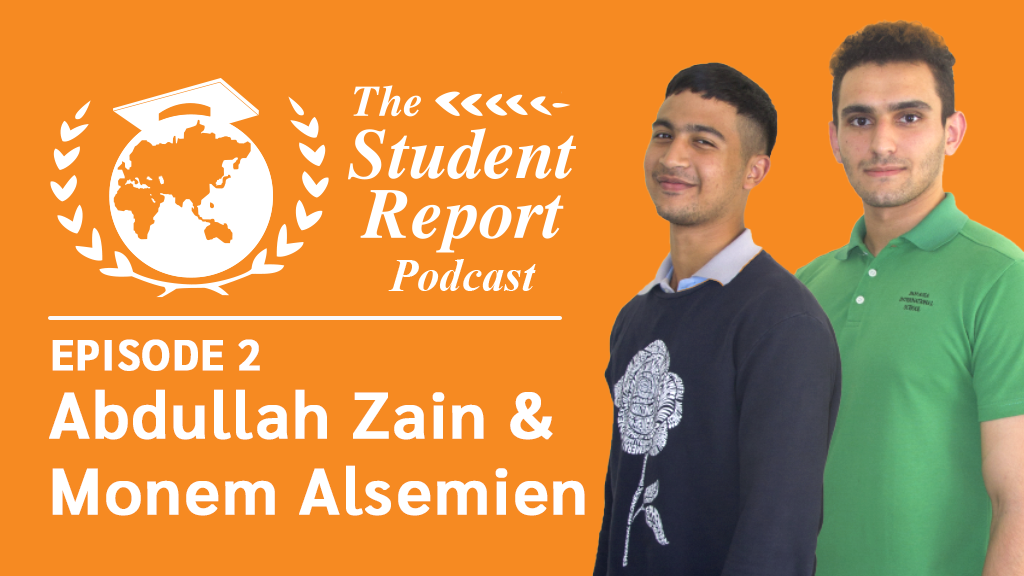
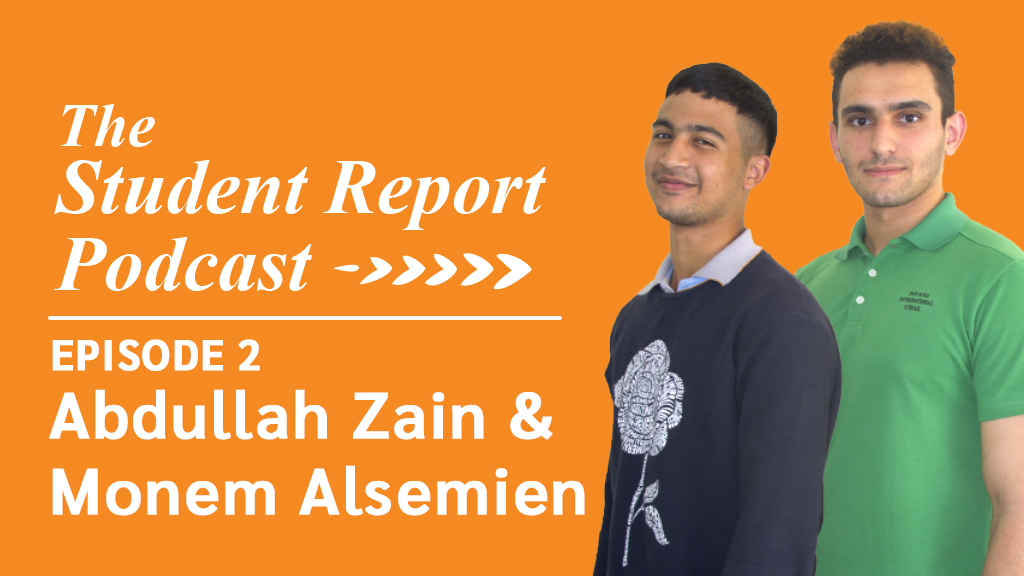
assets rebrand

Changed region(s): [[0.0312, 0.125, 0.5625, 0.5312]]

diff --git a/_includes/favicons.html b/_includes/favicons.html
@@ -1,9 +1,11 @@
-<link rel="apple-touch-icon" sizes="180x180" href="/icons/apple-touch-icon.png?v=2">
-<link rel="icon" type="image/png" sizes="32x32" href="/icons/favicon-32x32.png?v=2">
-<link rel="icon" type="image/png" sizes="16x16" href="/icons/favicon-16x16.png?v=2">
-<link rel="manifest" href="/icons/site.webmanifest?v=2">
-<link rel="mask-icon" href="/icons/safari-pinned-tab.svg?v=2" color="#f68b22">
-<link rel="shortcut icon" href="/icons/favicon.ico?v=2">
-<meta name="msapplication-TileColor" content="#f68b22">
-<meta name="msapplication-config" content="/icons/browserconfig.xml?v=2">
-<meta name="theme-color" content="#ffffff">
+<link rel="apple-touch-icon" sizes="180x180" href="/icons/apple-touch-icon.png?v=yyQBrYnP8m">
+<link rel="icon" type="image/png" sizes="32x32" href="/icons/favicon-32x32.png?v=yyQBrYnP8m">
+<link rel="icon" type="image/png" sizes="16x16" href="/icons/favicon-16x16.png?v=yyQBrYnP8m">
+<link rel="manifest" href="/icons/site.webmanifest?v=yyQBrYnP8m">
+<link rel="mask-icon" href="/icons/safari-pinned-tab.svg?v=yyQBrYnP8m" color="#f68a22">
+<link rel="shortcut icon" href="/icons/favicon.ico?v=yyQBrYnP8m">
+<meta name="apple-mobile-web-app-title" content="The Student Report">
+<meta name="application-name" content="The Student Report">
+<meta name="msapplication-TileColor" content="#da532c">
+<meta name="msapplication-config" content="/icons/browserconfig.xml?v=yyQBrYnP8m">
+<meta name="theme-color" content="#f68a22">

diff --git a/_posts/2019-09-29-ep-3.md b/_posts/2019-09-29-ep-3.md
@@ -12,7 +12,7 @@ epno: "3"
 <div class="viddiv"><iframe class="podcastvid" src="###REPLACE###" frameborder="0" allow="accelerometer; autoplay; encrypted-media; gyroscope; picture-in-picture" allowfullscreen></iframe></div>
 # Nunie Charoonkolrak & Cece Pettersson
 ### The Student Report Podcast - Episode 3
-for Issue 3, 2019
+for Issue 2, 2019
 
 Abridged Content:
 ------

diff --git a/_posts/2019-08-30-2019-1.md b/_posts/2019-08-30-2019-1.md
@@ -23,4 +23,4 @@ Inside:
 
 **Interview with Chalermsub Thamrongchaiworakun** by Ludfee Poothong
 
-# [-Click to read!-](/issues/2019-1_optimized.pdf)
+# [-Click to read!-]({{page.issuelink}})
